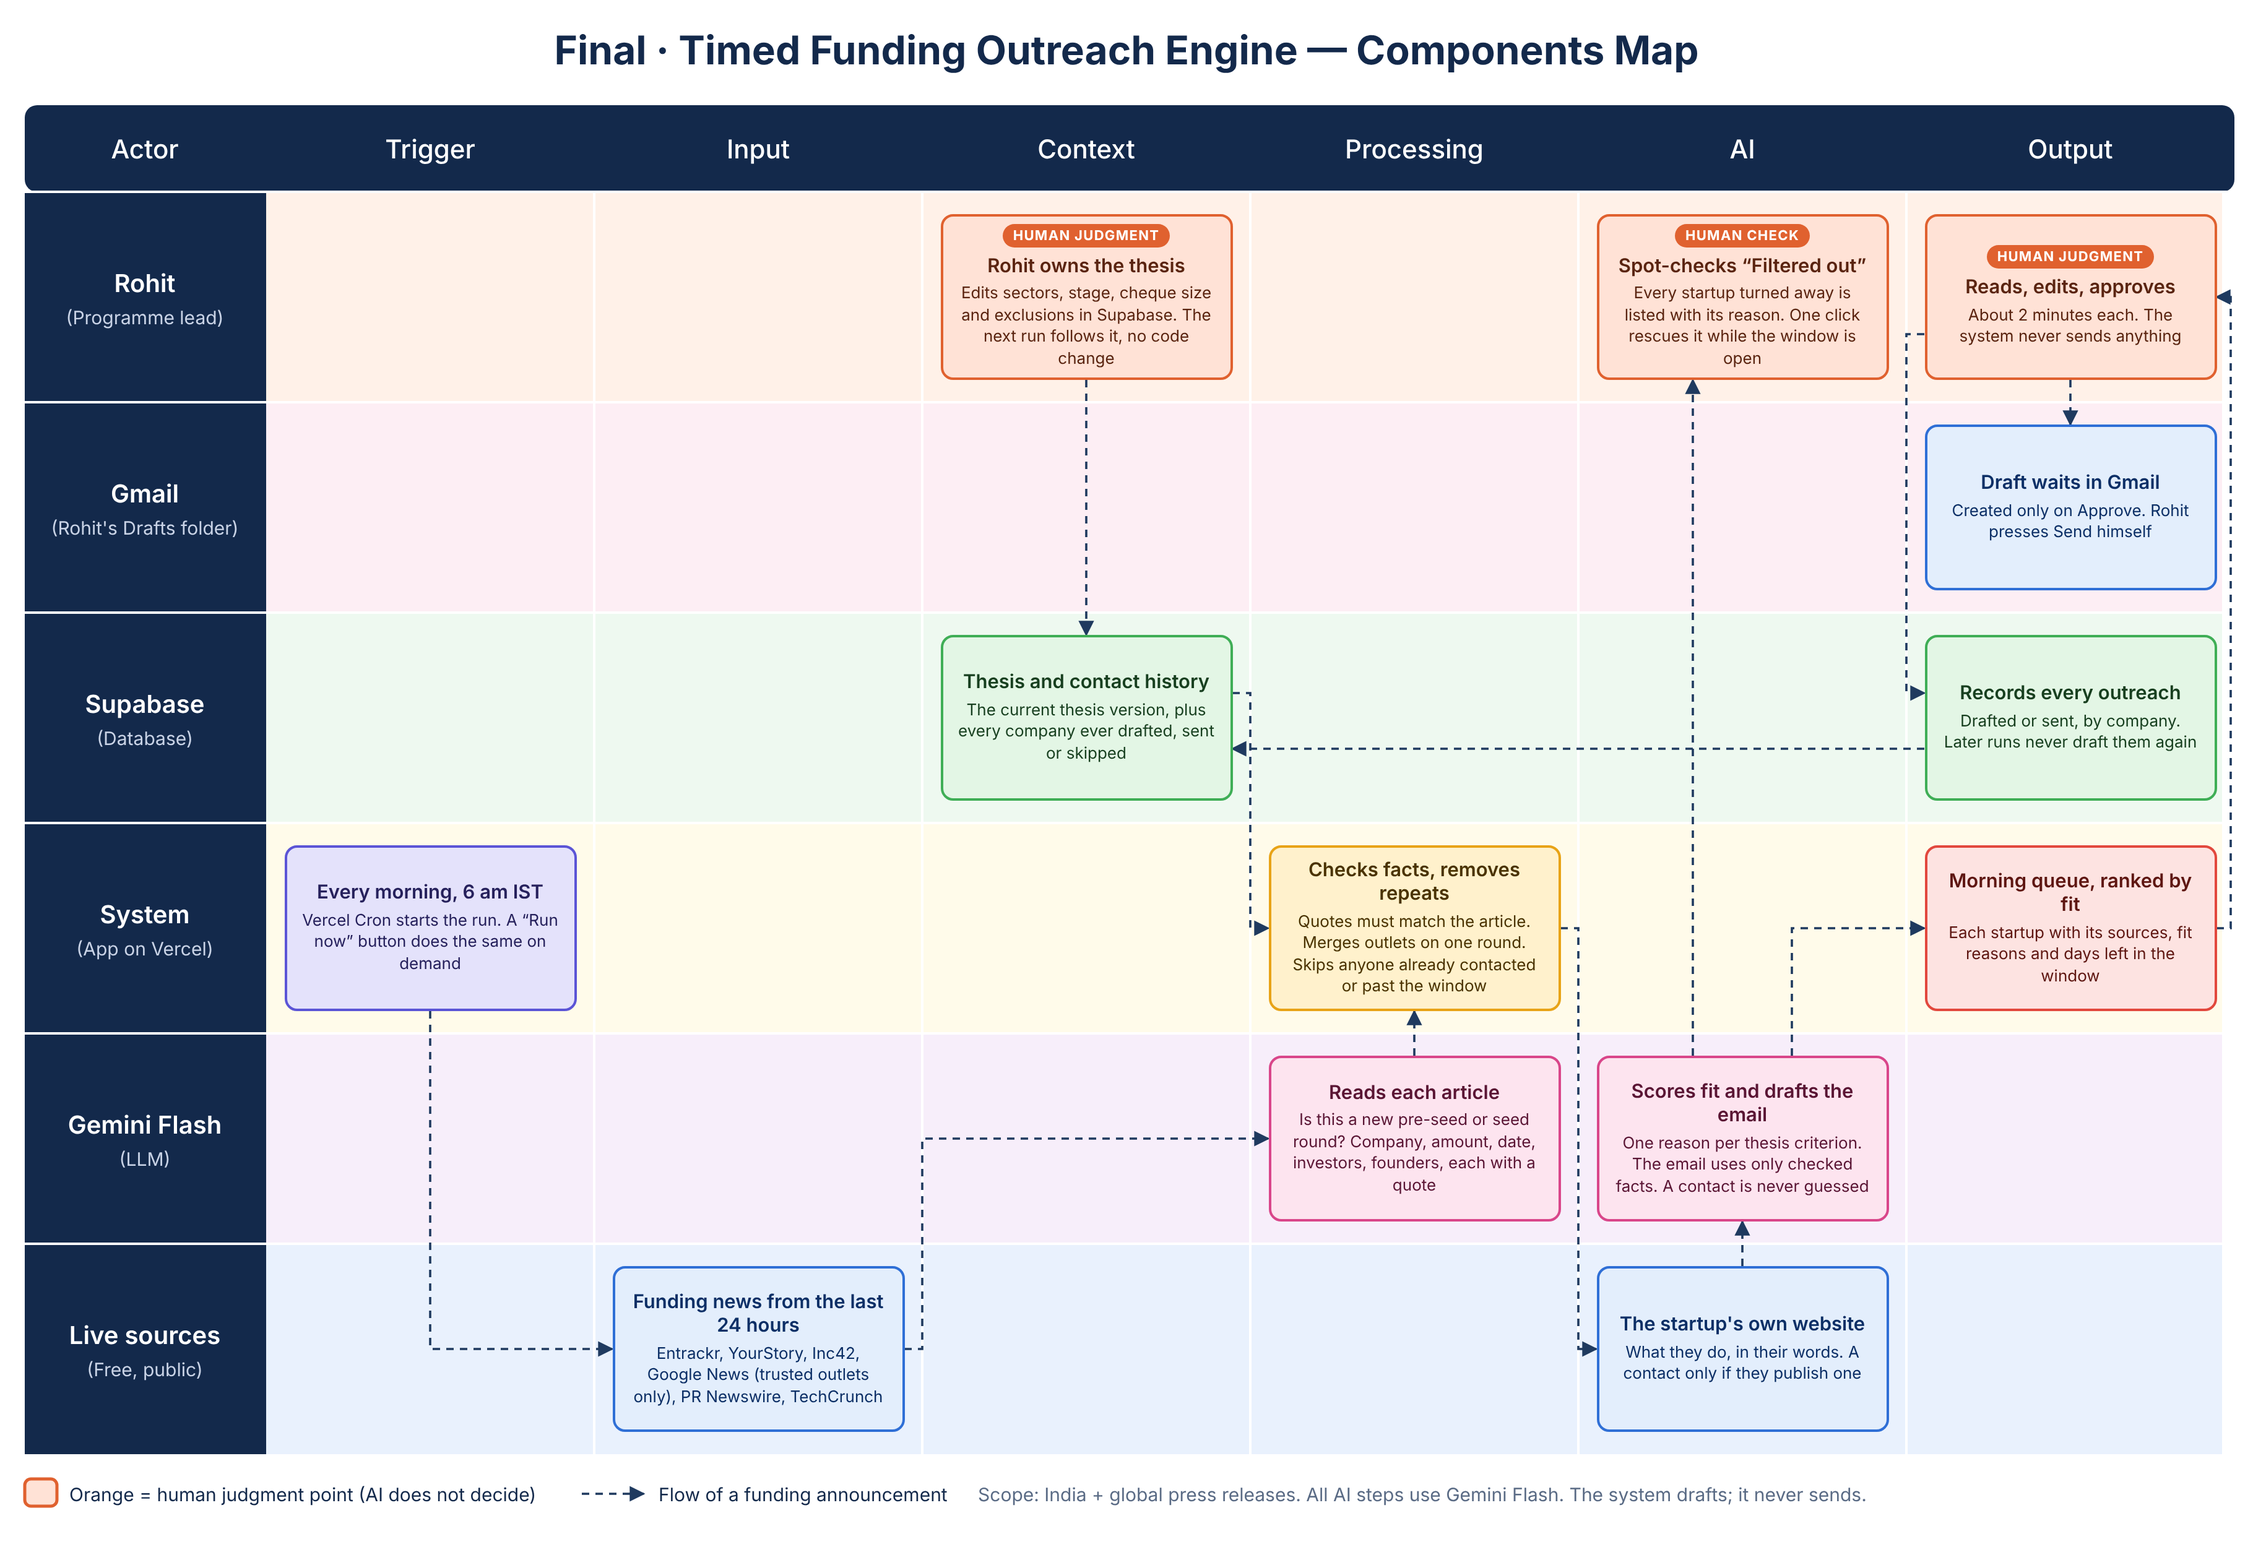
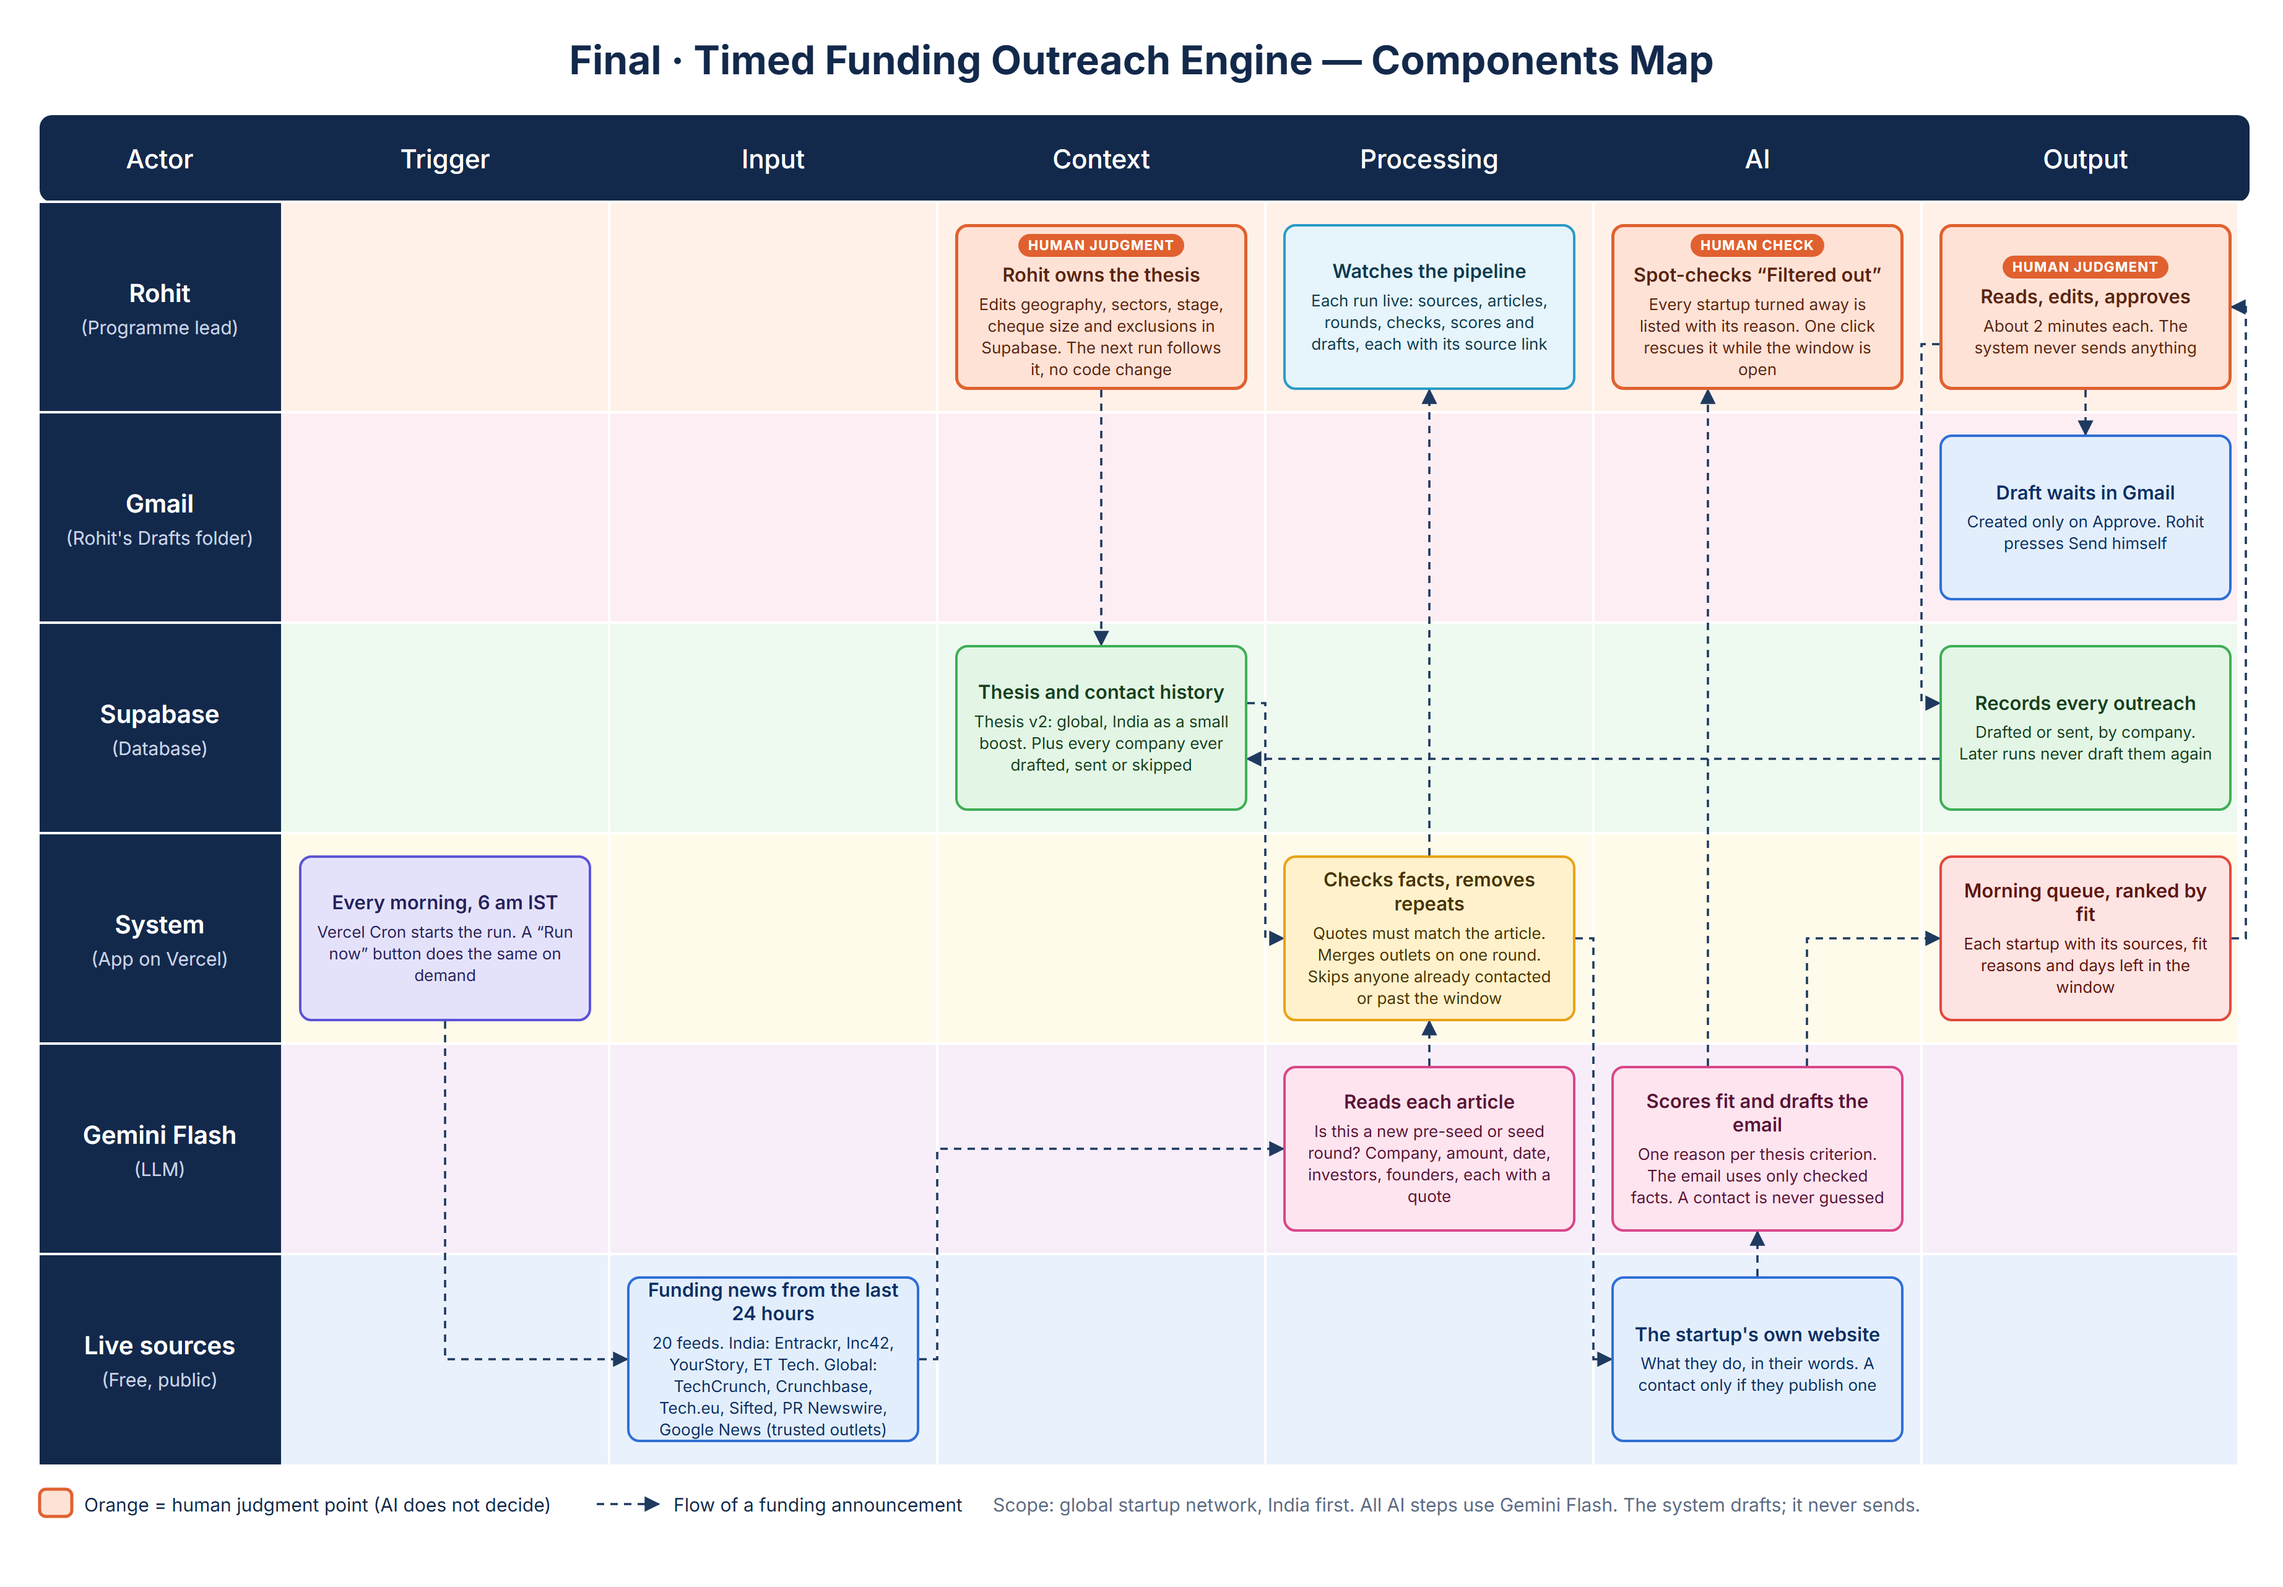
Components map: global sources, thesis v2, Rohit watches the pipeline

diff --git a/docs/components-map.html b/docs/components-map.html
@@ -24,6 +24,7 @@
   .hum  { background: #FFE2D6; border-color: #E0612F; color: #5A2410; border-width: 2.5px; }
   .mail { background: #E3EEFC; border-color: #2F6FD6; color: #0C2F66; }
   .out  { background: #FDE3E1; border-color: #E2483D; color: #5E1611; }
+  .view { background: #E6F4FB; border-color: #2A9BC9; color: #0B3A50; }
 </style>
 </head>
 <body>
@@ -57,14 +58,15 @@ const cy = l => Y0 + LH * (l - 1) + LH / 2;
 // [lane, column, style, badge, title, detail]
 const boxes = {
   S1: [4, 1, "trig", "", "Every morning, 6 am IST", "Vercel Cron starts the run. A “Run now” button does the same on demand"],
-  N1: [6, 2, "mail", "", "Funding news from the last 24 hours", "Entrackr, YourStory, Inc42, Google News (trusted outlets only), PR Newswire, TechCrunch"],
-  H1: [1, 3, "hum", "Human judgment", "Rohit owns the thesis", "Edits sectors, stage, cheque size and exclusions in Supabase. The next run follows it, no code change"],
-  D1: [3, 3, "ctx", "", "Thesis and contact history", "The current thesis version, plus every company ever drafted, sent or skipped"],
+  N1: [6, 2, "mail", "", "Funding news from the last 24 hours", "20 feeds. India: Entrackr, Inc42, YourStory, ET Tech. Global: TechCrunch, Crunchbase, Tech.eu, Sifted, PR Newswire, Google News (trusted outlets)"],
+  H1: [1, 3, "hum", "Human judgment", "Rohit owns the thesis", "Edits geography, sectors, stage, cheque size and exclusions in Supabase. The next run follows it, no code change"],
+  D1: [3, 3, "ctx", "", "Thesis and contact history", "Thesis v2: global, India as a small boost. Plus every company ever drafted, sent or skipped"],
   G1: [5, 4, "ai", "", "Reads each article", "Is this a new pre-seed or seed round? Company, amount, date, investors, founders, each with a quote"],
   S2: [4, 4, "proc", "", "Checks facts, removes repeats", "Quotes must match the article. Merges outlets on one round. Skips anyone already contacted or past the window"],
   N2: [6, 5, "mail", "", "The startup's own website", "What they do, in their words. A contact only if they publish one"],
   G2: [5, 5, "ai", "", "Scores fit and drafts the email", "One reason per thesis criterion. The email uses only checked facts. A contact is never guessed"],
   H3: [1, 5, "hum", "Human check", "Spot-checks “Filtered out”", "Every startup turned away is listed with its reason. One click rescues it while the window is open"],
+  H4: [1, 4, "view", "", "Watches the pipeline", "Each run live: sources, articles, rounds, checks, scores and drafts, each with its source link"],
   S3: [4, 6, "out", "", "Morning queue, ranked by fit", "Each startup with its sources, fit reasons and days left in the window"],
   H2: [1, 6, "hum", "Human judgment", "Reads, edits, approves", "About 2 minutes each. The system never sends anything"],
   M1: [2, 6, "mail", "", "Draft waits in Gmail", "Created only on Approve. Rohit presses Send himself"],
@@ -93,7 +95,8 @@ const arrows = [
   [R("S3"), [1802, R("S3")[1]], [1802, R("H2")[1]], R("H2")], // queue to Rohit
   [B("H2"), T("M1")],                       // approve creates the Gmail draft
   viaX(L("H2", 30), L("D2", -20), 1540),    // outreach recorded
-  [L("D2", 25), R("D1", 25)]                // history feeds tomorrow's dedupe
+  [L("D2", 25), R("D1", 25)],               // history feeds tomorrow's dedupe
+  [T("S2"), B("H4")]                        // every stage is visible to Rohit
 ];
 
 function el(tag, attrs, parent, text) {
@@ -134,7 +137,7 @@ el("text", { x: 56, y: ly, "font-size": 15, fill: "#13294B" }, bg, "Orange = hum
 el("line", { x1: 470, y1: ly - 6, x2: 520, y2: ly - 6, stroke: "#1F3A5F", "stroke-width": 1.8, "stroke-dasharray": "6 5", "marker-end": "url(#ah)" }, bg);
 el("text", { x: 532, y: ly, "font-size": 15, fill: "#13294B" }, bg, "Flow of a funding announcement");
 el("text", { x: 790, y: ly, "font-size": 15, fill: "#5A6B85" }, bg,
-   "Scope: India + global press releases. All AI steps use Gemini Flash. The system drafts; it never sends.");
+   "Scope: global startup network, India first. All AI steps use Gemini Flash. The system drafts; it never sends.");
 </script>
 </body>
 </html>
